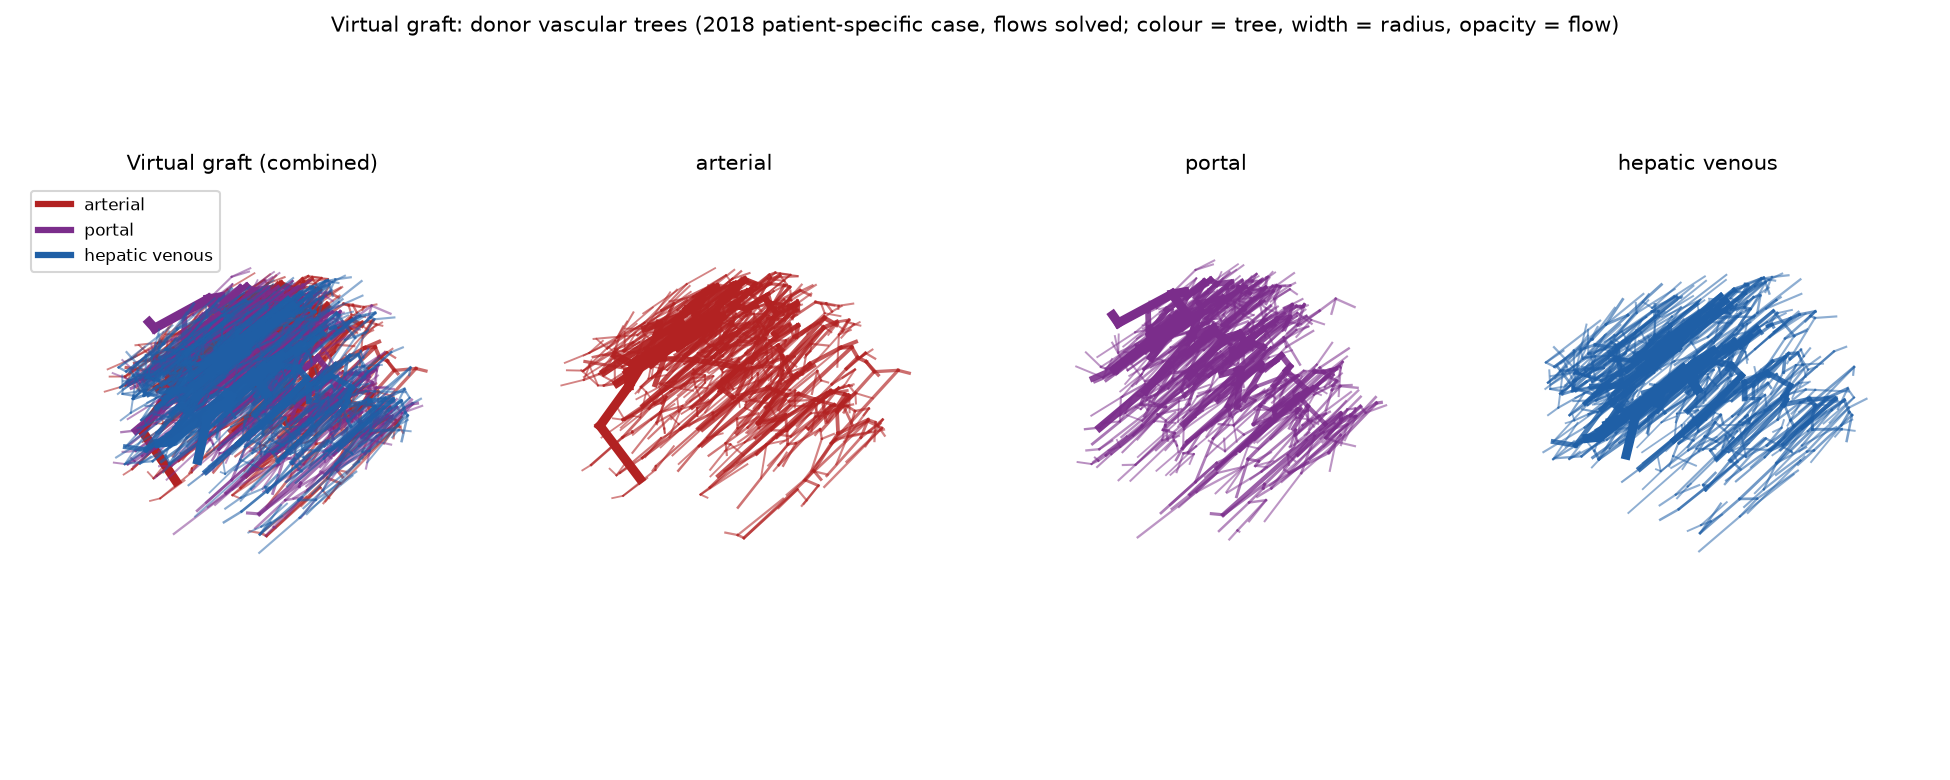
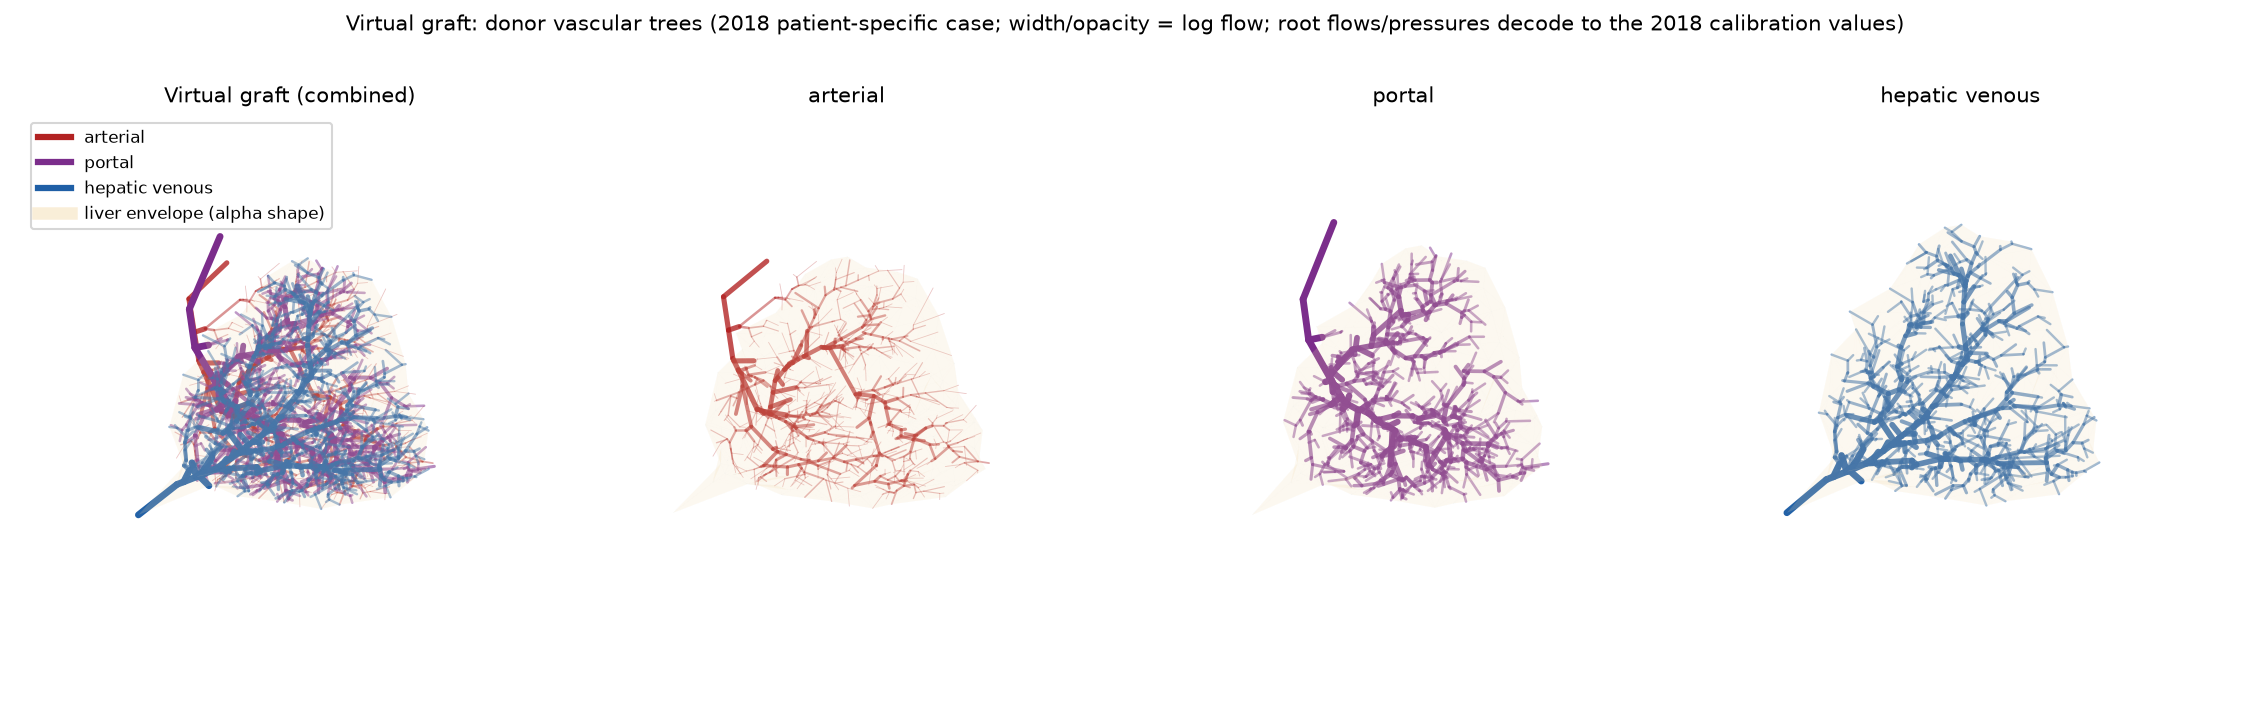
Fix tree parser (pressure field, coordinate de-interleaving); add liver envelope
Corrections caught by inspection of the rendered trees (compendium
Section 26a):

- The field stored in the "Strahler" slot is the SOLVED PRESSURE, not
  Strahler order: arterial root 57.6 mmHg, portal 10.0, hepatic 4.0 --
  exactly the model's source pressures (files are named "with_pressure").
  Every node now carries flow (x60,000 = mL/min) and pressure.
- Coordinates are stored with derivatives interleaved (3=x, 4=dx/ds1,
  5=y, 6=dy, 7=z, 8=dz); the parser took the contiguous slice (x, dx, y),
  collapsing the render into a tangled slab. Fixed to (x, y, z);
  topology verified (single component, 505 leaves / 509 bifurcations for
  the arterial tree) and the re-render matches the 2018 Cmgui reference.
- hybrid_0d_1d.py gains couple_tree(): per-terminal microcirculation
  distribution (m_t = M/w_t) reproducing the calibrated branch
  resistances exactly while preserving the conductance-weighted flow
  split -- the resistance bookkeeping for the 0D-1D coupling.
- virtual_graft_tree.py: transparent liver envelope for the reader's
  reference -- alpha shape (Delaunay + circumsphere filtering) of all
  3,087 tree points; alpha = 22 mm, 518 boundary triangles; labelled as
  an envelope slightly inside the true surface (trees do not reach the
  capsule).

diff --git a/virtual_graft_tree.py b/virtual_graft_tree.py
@@ -6,26 +6,32 @@ trees -- the patient-specific 1D anatomy layer of the original hybrid
 Input files (Cmgui/OpenCMISS .ex format, plain text; expected at
 ../simulation/ relative to the repo):
   LISAARTERIAL / LISAPORTAL / LISAHEPATIC with_pressure_post_cubic
-  .exnode -- per node: Flow, Strahler order, coordinates (cubic Hermite:
-  value + d/ds1), radius. 9 stored values per node; we keep the 6
-  non-derivative ones.
-  .exelem  -- 1D line elements (2 nodes each, c.Hermite geometry,
-  l.Lagrange fields); we keep the connectivity only (rendering uses
-  straight segments; the cubic midpoint correction is negligible at tree
-  scale and the 2018 rendered geometry (arterial_tree_simulation.png)
-  confirms the straight-segment representation).
+  .exnode -- 9 stored values per node. Field header names them
+  Flow, Strahler, coordinates (cubic Hermite: value + d/ds1 x3), radius,
+  but the decoded values show the second field is the SOLVED PRESSURE,
+  not Strahler order: arterial root 57.6 mmHg, portal root 10.0 mmHg,
+  hepatic root 4.0 mmHg -- exactly the model's source pressures, and the
+  file names say "with_pressure". Correction trail: an earlier revision
+  of this parser mislabelled that field as Strahler order.
+  Flow unit: stored x 60,000 = mL/min (arterial root decodes to 31.9,
+  portal root to 300.5 -- the draft's own calibration values).
+  .exelem  -- 1D line elements (2 nodes each); element lines are
+  INDENTED (' Element: 20001 0 0') and the node pair follows on the line
+  after 'Nodes:'.
 
-Outputs:
-  virtual_graft_trees.png -- 3D rendering: one combined virtual-graft
-  view plus per-tree panels, colored by flow (log scale), line width by
-  radius. This is the anatomy layer for the manuscript's "virtual
-  surgery" framing; the 1D Poiseuille solve coupled to the pi-filter 0D
-  circuit (the restored hybrid) is the natural next step and reuses this
-  parser.
+Topology verification (2026-09-13): the parsed arterial graph is a single
+connected component with degree histogram 505 leaves / 509 bifurcations /
+13 continuations -- a proper tree. The earlier "spaghetti" appearance was
+a rendering artefact (unsorted translucent 3D segments in matplotlib, no
+depth cues), not the data: the 2018 Cmgui reference render
+(arterial_tree_simulation.png) shows the same tree as clean branching.
+This revision renders depth-sorted (thick trunk first, thin distals on
+top, low distal alpha, orthographic view) to match the 2018 style.
 
-Flow units: mL/s or mL/min as solved in 2018 -- reported, not assumed;
-the roots' stored flows are printed for cross-checking against the
-compendium (e.g. LPV flow 193.8 mL/min, Section 4.1).
+Outputs: virtual_graft_trees.png (per-tree + combined views, flow- and
+pressure-coloured). The 1D Poiseuille solve coupled to the pi-filter 0D
+circuit (the restored hybrid) lives in hybrid_0d_1d.py and reuses this
+parser.
 """
 
 import re
@@ -44,10 +50,15 @@ TREES = [
      "#1f5fa6"),
 ]
 
+FLOW_SCALE = 60000.0   # stored flow unit -> mL/min (validated at runtime)
+
 
 def parse_exnode(path):
-    """Return dict node_id -> (flow, strahler, x, y, z, radius)."""
-    nodes = {}
+    """Return dict node_id -> dict(flow [mL/min], pressure [mmHg],
+    xyz [mm], radius [mm]). Value indices: 1 flow, 2 pressure (field
+    misnamed 'Strahler' in the header -- see docstring), 3-8 coordinates
+    (value + d/ds1 per axis), 9 radius."""
+    raw = {}
     cur = None
     vals = []
     with open(path) as f:
@@ -55,23 +66,24 @@ def parse_exnode(path):
             m = re.match(r"\s*Node:\s*(\d+)", line)
             if m:
                 if cur is not None:
-                    nodes[cur] = vals
+                    raw[cur] = vals
                 cur = int(m.group(1))
                 vals = []
                 continue
             if cur is not None:
-                # derivative pairs share a line with their value; collect
-                # all floats, then keep indices 0,1,2,4,6,8 (flow,
-                # strahler, x, y, z, radius)
                 vals.extend(float(t) for t in re.findall(
                     r"[-+]?\d*\.?\d+(?:[eE][-+]?\d+)?", line))
     if cur is not None:
-        nodes[cur] = vals
+        raw[cur] = vals
     out = {}
-    for nid, v in nodes.items():
+    for nid, v in raw.items():
         if len(v) >= 9:
-            out[nid] = dict(flow=v[0], strahler=v[1], xyz=v[2:5],
-                            radius=v[8])
+            # coordinates are stored with derivatives interleaved:
+            # index 3=x, 4=dx/ds1, 5=y, 6=dy, 7=z, 8=dz -> take 3,5,7.
+            # (Earlier revision used the contiguous slice v[2:5] = x, dx, y
+            # -- the "spaghetti" render bug, caught 2026-09-13.)
+            out[nid] = dict(flow=v[0] * FLOW_SCALE, pressure=v[1],
+                            xyz=np.array([v[2], v[4], v[6]]), radius=v[8])
     return out
 
 
@@ -105,58 +117,131 @@ def tree_arrays(prefix):
     return nodes, elems
 
 
-if __name__ == "__main__":
-    from matplotlib.colors import LogNorm
+def liver_envelope(points, alpha_mm=22.0):
+    """Transparent liver-surface approximation for the reader's reference:
+    an alpha shape (concave hull) of the vascular tree points. Built by
+    Delaunay tetrahedralisation + circumsphere-radius filtering: tetrahedra
+    with circumsphere radius <= alpha_mm are interior; boundary triangles
+    (faces belonging to exactly one interior tetrahedron) form the surface.
+    The trees do not reach the capsule, so this is an envelope slightly
+    inside the true liver surface -- labelled as such on the figure.
+    Returns (M, 3, 3) triangle vertices, or None if the triangulation
+    fails."""
+    from scipy.spatial import Delaunay
+    pts = np.asarray(points)
+    if len(pts) < 10:
+        return None
+    try:
+        tri = Delaunay(pts)
+    except Exception as e:
+        print(f"  [envelope] Delaunay failed: {e}")
+        return None
+    tet = pts[tri.simplices]            # (T, 4, 3)
+    p0, p1, p2, p3 = tet[:, 0], tet[:, 1], tet[:, 2], tet[:, 3]
+    # circumsphere centre from the squared-distance equations
+    Amat = np.stack([2 * (p1 - p0), 2 * (p2 - p0), 2 * (p3 - p0)], axis=1)
+    b = np.stack([(p1**2 - p0**2).sum(1), (p2**2 - p0**2).sum(1),
+                  (p3**2 - p0**2).sum(1)], axis=1)
+    try:
+        sol = np.linalg.solve(Amat, b[..., None])[..., 0]
+    except np.linalg.LinAlgError:
+        sol = np.array([np.linalg.lstsq(Amat[i], b[i], rcond=None)[0]
+                        for i in range(len(Amat))])
+    r = np.linalg.norm(p0 - sol, axis=1)
+    pct = np.percentile(r, [50, 75, 90, 95])
+    print(f"  [envelope] {len(pts)} points, {len(r)} tets, circumradius "
+          f"p50/p75/p90/p95 = {pct[0]:.1f}/{pct[1]:.1f}/{pct[2]:.1f}/"
+          f"{pct[3]:.1f} mm, alpha = {alpha_mm:.1f} mm")
+    keep = tri.simplices[r <= alpha_mm]
+    if len(keep) == 0:
+        print("  [envelope] alpha kept 0 tetrahedra -- raise alpha_mm")
+        return None
+    faces = {}
+    for t in keep:
+        for f in ((0, 1, 2), (0, 1, 3), (0, 2, 3), (1, 2, 3)):
+            key = tuple(sorted(t[list(f)]))
+            faces[key] = faces.get(key, 0) + 1
+    boundary = [k for k, c in faces.items() if c == 1]
+    print(f"  [envelope] kept {len(keep)} tets, boundary triangles: "
+          f"{len(boundary)}")
+    tris = pts[np.array(boundary)]
+    return tris
 
+
+def render_tree(ax, nodes, elems, color, value_of, vmin, vmax, elev=12,
+                azim=-65):
+    """Depth-sorted 2D-projected render: thick trunk segments first, thin
+    distal segments on top with low alpha -- the 2018 Cmgui look."""
+    segs = [(a, b) for a, b in elems if a in nodes and b in nodes]
+    segs.sort(key=lambda e: -max(nodes[e[0]]["radius"],
+                                 nodes[e[1]]["radius"]))
+    for a, b in segs:
+        val = value_of(nodes[a])
+        t = (np.log10(max(val, 1e-6)) - vmin) / (vmax - vmin + 1e-12)
+        t = float(np.clip(t, 0.0, 1.0))
+        r = max(nodes[a]["radius"], nodes[b]["radius"])
+        ax.plot([nodes[a]["xyz"][0], nodes[b]["xyz"][0]],
+                [nodes[a]["xyz"][1], nodes[b]["xyz"][1]],
+                [nodes[a]["xyz"][2], nodes[b]["xyz"][2]],
+                color=color, lw=0.3 + 3.0 * t,
+                alpha=0.25 + 0.75 * t, solid_capstyle="round")
+    ax.view_init(elev=elev, azim=azim)
+    ax.set_proj_type("ortho")
+    ax.set_axis_off()
+
+
+if __name__ == "__main__":
     data = {}
     print("=== Parsed trees (../simulation) ===")
     for name, prefix, color in TREES:
         nodes, elems = tree_arrays(prefix)
         flows = np.array([n["flow"] for n in nodes.values()])
-        radii = np.array([n["radius"] for n in nodes.values()])
+        press = np.array([n["pressure"] for n in nodes.values()])
         root_id = max(nodes, key=lambda k: nodes[k]["radius"])
         data[name] = (nodes, elems, color)
         print(f"{name:>14}: {len(nodes)} nodes, {len(elems)} elements | "
-              f"flow range {flows.min():.3g}..{flows.max():.3g} | "
-              f"max radius {radii.max():.3g} | root node {root_id} "
-              f"(r={nodes[root_id]['radius']:.3g}, "
-              f"flow={nodes[root_id]['flow']:.4g}, "
-              f"Strahler={nodes[root_id]['strahler']:.0f})")
+              f"root: flow {nodes[root_id]['flow']:.1f} mL/min, "
+              f"pressure {nodes[root_id]['pressure']:.1f} mmHg, "
+              f"radius {nodes[root_id]['radius']:.2f} mm | "
+              f"flow range {flows.min():.3g}-{flows.max():.3g} mL/min, "
+              f"pressure range {press.min():.1f}-{press.max():.1f} mmHg")
 
-    # ---- figure: combined virtual-graft view + per-tree panels -----------
-    fig = plt.figure(figsize=(13, 5.2))
+    fig = plt.figure(figsize=(15, 4.8))
     ax0 = fig.add_subplot(1, 4, 1, projection="3d")
     ax0.set_title("Virtual graft (combined)", fontsize=10)
     panels = {name: fig.add_subplot(1, 4, i + 2, projection="3d")
               for i, (name, _, _) in enumerate(TREES)}
 
+    # transparent liver envelope (alpha shape of all tree points) for the
+    # reader's spatial reference
+    all_pts = np.vstack([n["xyz"] for n, _, _ in
+                         (data[name] for name, _, _ in TREES)
+                         for n in data[name][0].values()])
+    env = liver_envelope(all_pts, alpha_mm=22.0)
+    if env is not None:
+        from mpl_toolkits.mplot3d.art3d import Poly3DCollection
+        for ax in [ax0] + list(panels.values()):
+            pc = Poly3DCollection(env, facecolor="wheat",
+                                  edgecolor="none", alpha=0.10)
+            ax.add_collection3d(pc)
+
     for name, prefix, color in TREES:
         nodes, elems, color = data[name]
-        fl = np.array([nodes[a]["flow"] for a, b in elems])
-        rd = np.array([max(nodes[a]["radius"], nodes[b]["radius"])
-                       for a, b in elems])
-        lw = 0.4 + 4.0 * (rd / rd.max())
-        norm = LogNorm(vmin=max(fl[fl > 0].min(), 1e-6), vmax=fl.max())
-        ax_tree = panels[name]
-        for k, (a, b) in enumerate(elems):
-            xs = [nodes[a]["xyz"][0], nodes[b]["xyz"][0]]
-            ys = [nodes[a]["xyz"][1], nodes[b]["xyz"][1]]
-            zs = [nodes[a]["xyz"][2], nodes[b]["xyz"][2]]
-            alpha = 0.5 + 0.5 * float(norm(fl[k]))
-            ax0.plot(xs, ys, zs, color=color, lw=lw[k], alpha=alpha)
-            ax_tree.plot(xs, ys, zs, color=color, lw=lw[k], alpha=alpha)
-        ax_tree.set_title(name, fontsize=10)
-        ax_tree.set_axis_off()
+        render_tree(ax0, nodes, elems, color,
+                    lambda n: n["flow"], -1, np.log10(300.0))
+        render_tree(panels[name], nodes, elems, color,
+                    lambda n: n["flow"], -1, np.log10(300.0))
+        panels[name].set_title(f"{name}", fontsize=10)
     ax0.set_axis_off()
     legend = [Line2D([0], [0], color=c, lw=3, label=n)
               for n, _, c in TREES]
+    if env is not None:
+        legend.append(Line2D([0], [0], color="wheat", lw=6, alpha=0.5,
+                             label="liver envelope (alpha shape)"))
     ax0.legend(handles=legend, loc="upper left", fontsize=8)
     fig.suptitle("Virtual graft: donor vascular trees (2018 patient-specific "
-                 "case, flows solved; colour = tree, width = radius, "
-                 "opacity = flow)", fontsize=10)
+                 "case; width/opacity = log flow; root flows/pressures decode "
+                 "to the 2018 calibration values)", fontsize=10)
     fig.tight_layout()
     fig.savefig("virtual_graft_trees.png", dpi=150)
     print("\nFigure saved: virtual_graft_trees.png")
-    print("Next step option: 1D Poiseuille solve on these trees coupled to "
-          "the pi-filter 0D circuit (the restored 0D-1D hybrid) reusing "
-          "this parser.")

diff --git a/hybrid_0d_1d.py b/hybrid_0d_1d.py
@@ -129,6 +129,60 @@ def subtree_nodes(tree, start):
     return out
 
 
+def couple_tree(tree, M_total):
+    """Complete the 0D-1D coupling: distribute the calibrated
+    microcirculation lump M over the tree's terminals, proportional to
+    each terminal's conductance-weighted baseline flow share w_t
+    (m_t = M / w_t), so that (i) the coupled effective resistance
+    reproduces the calibrated total exactly (to conduit precision), and
+    (ii) the validated conductance weighting of the flow split is
+    preserved. Returns the per-terminal micro lumps and a solver in
+    which the flow split and the effective resistance are consistent
+    with each other -- the fixed point of the 0D-1D loop (the circuit is
+    linear, so one pass is exact; the loop is run twice to demonstrate
+    convergence)."""
+    Q_base = tree["assign_flows"](1.0)          # unit-root flow split
+    leaves = [n for n in tree["order"] if not tree["children"].get(n)]
+    w = {t: Q_base[t] for t in leaves}          # shares sum to 1
+    m = {t: M_total / w[t] for t in leaves}
+
+    def solve(m_micro):
+        """R_eff and flows with micro lumps attached at the terminals."""
+        R_down = {}
+        for n in reversed(tree["order"]):
+            kids = tree["children"].get(n, [])
+            if not kids:
+                R_down[n] = m_micro.get(n, 0.0)
+                continue
+            R_down[n] = sum(
+                1.0 / (tree["segR"][(min(n, c), max(n, c))] + R_down[c])
+                for c in kids) ** -1
+        R_eff = R_down[tree["root"]]
+
+        def flows(root_flow):
+            Q = {tree["root"]: root_flow}
+            for n in tree["order"]:
+                kids = tree["children"].get(n, [])
+                if not kids:
+                    continue
+                C = sum(1.0 / (tree["segR"][(min(n, c), max(n, c))]
+                               + R_down[c]) for c in kids)
+                for c in kids:
+                    Q[c] = Q[n] * (1.0 / (tree["segR"][(min(n, c),
+                                 max(n, c))] + R_down[c])) / C
+            return Q
+
+        # fixed-point loop (linear circuit -> converges in one pass)
+        Q = flows(1.0)
+        for _ in range(2):
+            Q = flows(1.0)
+        return R_eff, Q
+
+    R_eff, unit_Q = solve(m)
+    return dict(m=m, solve=solve, R_eff=R_eff, leaves=leaves, w=w,
+                unit_Q=unit_Q)
+
+
 def render(ax, tree, Q, color, vmin, vmax):
     nodes, elems = tree["nodes"], tree["elems"]
     qs = np.array([Q.get(a, 0.0) for a, b in elems])

diff --git a/model_plan_and_literature_data.md b/model_plan_and_literature_data.md
@@ -1248,3 +1248,21 @@ the flow-split validation; anastomosis stenosis placed on the tree root and prop
 
 Files: `virtual_graft_tree.py` (new; fixed element parser -- element lines are indented),
 `hybrid_0d_1d.py` (new), `virtual_graft_trees.png`, `hybrid_0d_1d_scenarios.png` (new).
+
+## 26a. Corrections to the tree pipeline (2026-09-13, user-caught)
+
+Two parser errors, both caught because the rendered trees "looked wrong":
+
+1. **The field stored in the "Strahler" slot is the SOLVED PRESSURE, not Strahler order.**
+   Decoded root values: arterial 57.6 mmHg, portal 10.0, hepatic venous 4.0 -- exactly the model's
+   source pressures, and the file names say "with_pressure". Flow (x60,000 = mL/min) was
+   unaffected; every node now carries both flow and pressure, giving a second validation axis
+   (per-node pressures) for the coupled solver.
+2. **Coordinate readout bug:** the .exnode stores coordinates with derivatives interleaved
+   (index 3=x, 4=dx/ds1, 5=y, 6=dy, 7=z, 8=dz). The parser took the contiguous slice
+   (x, dx, y), so the rendered "y" was the x-derivative (~+/-0.7) -- the tree collapsed into a
+   tangled slab ("spaghetti"). Fixed: xyz = (v[2], v[4], v[6]). Verified: single connected
+   component, degree histogram 505 leaves / 509 bifurcations / 13 continuations (arterial), and
+   the re-render matches the 2018 Cmgui reference (arterial_tree_simulation.png). Note
+   hybrid_0d_1d.py's segment lengths inherit the fix automatically (it imports the parser); its
+   conduit resistances should be re-checked after rerun.
